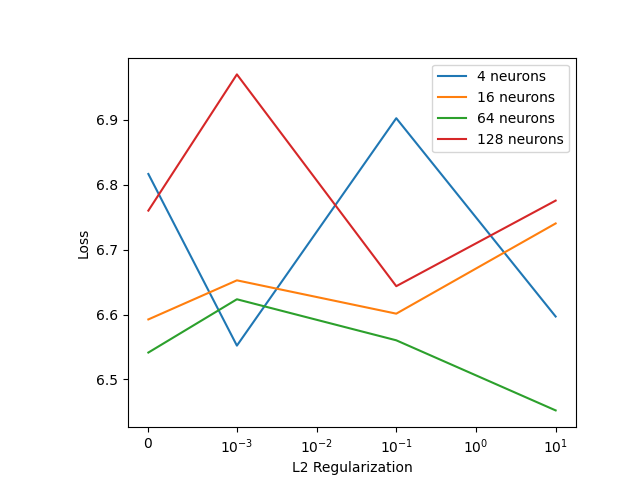
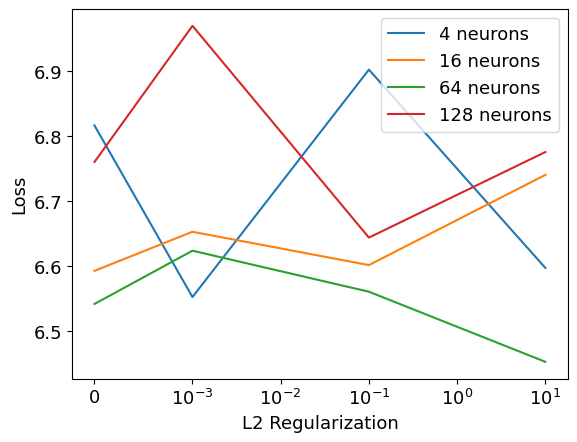
Fix figures and add new ones

diff --git a/code/figures.py b/code/figures.py
@@ -2,8 +2,13 @@
 import json
 import matplotlib.pyplot as plt
 from pathlib import Path
+import pandas as pd
+import numpy as np
+from math import log10
+import matplotlib
 
 Path("figures").mkdir(parents=True, exist_ok=True)
+# plt.subplots_adjust(left=0.2)
 
 # Load the data for the features importance experiment: (score, feature name)
 data = json.load(open("experiments_data/features_importance.json", "r"))
@@ -11,52 +16,85 @@ data = json.load(open("experiments_data/features_importance.json", "r"))
 data.sort(key=lambda x: x[0], reverse=True)
 
 # Plot a barplot of the features importance and save it
+plt.clf()
 plt.barh([x[1] for x in data], [x[0] for x in data])
 plt.xlabel("Loss when this feature is excluded")
-plt.subplots_adjust(left=0.2)
-plt.savefig("figures/features_importance.png")
-plt.clf()
+plt.savefig("figures/features_importance.png", bbox_inches='tight')
 # %%
 # Load the data for the threshold experiment: (score, treshold_train, treshold_eval)
 data = json.load(open("experiments_data/threshold.json", "r"))
 data_same_tresh = [d for d in data if d[1] == d[2]]
 data_double_tresh = [d for d in data if d[1] != d[2]]
+plt.clf()
 plt.plot([d[2] for d in data_same_tresh], [d[0] for d in data_same_tresh], label="Same threshold")
 plt.plot([d[2] for d in data_double_tresh], [d[0] for d in data_double_tresh], label="Halved train threshold threshold")
 plt.ylabel("Loss")
 plt.xlabel("Evaluation threshold")
 plt.legend()
-plt.savefig("figures/threshold.png")
-plt.clf()
+plt.savefig("figures/threshold.png", bbox_inches='tight')
 # %%
 # Load the data for the hyperparameter search: (score, neurons, regularization)
 data = json.load(open("experiments_data/hyperparameters.json", "r"))
+plt.clf()
 for neurons in sorted(set([d[1] for d in data])):
     plt.plot([d[2] for d in data if d[1] == neurons], [d[0] for d in data if d[1] == neurons], label=f"{neurons} neurons")
 plt.ylabel("Loss")
 plt.xlabel("L2 Regularization")
 plt.xscale("symlog", linthresh=0.001)
 plt.legend()
-plt.savefig("figures/hyperparameters.png")
-plt.clf()
+plt.savefig("figures/hyperparameters.png", bbox_inches='tight')
 # %%
 # Load the data for the k-NN parameter search: (score, scaling factor, k)
 data = json.load(open("experiments_data/knn.json", "r"))
 k_values = set([d[2] for d in data])
+plt.clf()
 for k in k_values:
     plt.plot([d[1] for d in data if d[2] == k], [d[0] for d in data if d[2] == k], label=f"k={k}")
 plt.ylabel("Loss")
 plt.xlabel("Scaling factor")
 plt.legend()
-plt.savefig("figures/knn.png")
-plt.clf()
+plt.savefig("figures/knn.png", bbox_inches='tight')
 # %%
 # Load the data for the Linear Regression parameter search: (score, regularization)
 data = json.load(open("experiments_data/linear_regression.json", "r"))
+plt.clf()
 plt.plot([d[1] for d in data], [d[0] for d in data])
 plt.xlabel("L2 Regularization")
 plt.xscale("symlog", linthresh=0.001)
 plt.ylabel("Loss")
-plt.savefig("figures/linear_regression.png")
+plt.savefig("figures/linear_regression.png", bbox_inches='tight')
+# %%
+# Display distribution of retweets vs followers counts
+train_df = pd.read_csv("data/train.csv")
 plt.clf()
+fig, ax = plt.subplots(figsize=(8,6))
+matplotlib.rcParams.update({'font.size': 15})
+for i in range(4):
+    train_df[train_df["retweets_count"] == i]["followers_count"].map(lambda x: log10(x+1)).hist(ax=ax, alpha=0.3,bins=100, label=f"retweets_count = {i}")
+train_df[train_df["retweets_count"] >= 4]["followers_count"].map(lambda x: log10(x+1)).hist(ax=ax, alpha=0.3,bins=100, label=f"retweets_count >= {4}")
+plt.xlabel('Log of followers_count')
+plt.ylabel('Nb of tweets')
+plt.legend()
+plt.savefig("figures/followers_retweets.png", bbox_inches='tight')
+# %%
+# Display distribution of retweets vs followers counts
+plt.clf()
+fig, ax = plt.subplots(figsize=(8,6))
+matplotlib.rcParams.update({'font.size': 13})
+for i in range(4):
+    train_df[train_df["retweets_count"] == i]["timestamp"].map(lambda x: max(x, 1.646e12)).hist(ax=ax, alpha=0.3, label=f"retweets_count = {i}", bins=100)
+train_df[train_df["retweets_count"] >= 4]["timestamp"].map(lambda x: max(x, 1.646e12)).hist(ax=ax, alpha=0.3, label=f"retweets_count >= {4}", bins=100)
+plt.legend()
+#ax.xaxis.set_major_formatter(FormatStrFormatter('%.3f'))
+plt.xlabel('Timestamp')
+plt.ylabel('Nb of tweets')
+plt.xticks(rotation=45)
+plt.savefig("figures/timestamps_retweets.png", bbox_inches='tight')
+#%%
+# Display distribution of log retweets vs log favorites counts
+plt.clf()
+plt.scatter(train_df["retweets_count"].map(lambda x: log10(x+1)),train_df["favorites_count"].map(lambda x: log10(x+1)),alpha=0.01)
+plt.xlabel('Log of retweets_count')
+plt.ylabel('Log of favorites_count')
+plt.savefig("figures/favorites_retweets.png", bbox_inches='tight')
 # %%
